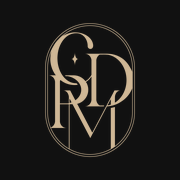
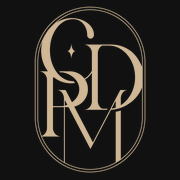
Icône : monogramme agrandi (#3)
* Icône d'application et manifeste pour l'ajout à l'écran d'accueil

Claude-Session: https://claude.ai/code/session_0175wKRAh1zfr61H2HgfBNrE

* Icône d'application basée sur le monogramme du cabinet

Claude-Session: https://claude.ai/code/session_0175wKRAh1zfr61H2HgfBNrE

* Icône : monogramme doré sur fond noir

Claude-Session: https://claude.ai/code/session_0175wKRAh1zfr61H2HgfBNrE

* Icône iPhone : balises déplacées dans l'en-tête de la page des scores

Claude-Session: https://claude.ai/code/session_0175wKRAh1zfr61H2HgfBNrE

* Icône : monogramme agrandi pour remplir le carré

Claude-Session: https://claude.ai/code/session_0175wKRAh1zfr61H2HgfBNrE

---------

Changed region(s): [[0.1667, 0.0278, 0.8333, 0.9722], [0.3611, 0.25, 0.4444, 0.3611]]

diff --git a/index.html b/index.html
@@ -4,7 +4,7 @@
 .site-switch a:hover{background:rgba(250,245,238,.12)}
 .site-switch a.on{background:var(--cream);color:var(--head);border-color:var(--cream)}
 @media print{.site-switch{display:none}}
-</style><link rel="manifest" href="manifest.webmanifest?v=2"><link rel="icon" href="icons/favicon-64.png?v=2" sizes="64x64"><link rel="icon" href="icons/icon-192.png?v=2" sizes="192x192"><link rel="apple-touch-icon" href="icons/apple-touch-icon.png?v=2"><meta name="apple-mobile-web-app-capable" content="yes"><meta name="mobile-web-app-capable" content="yes"><meta name="apple-mobile-web-app-title" content="Scores Derm"><meta name="apple-mobile-web-app-status-bar-style" content="black-translucent"><meta name="theme-color" content="#111111"></head><body>
+</style><link rel="manifest" href="manifest.webmanifest?v=3"><link rel="icon" href="icons/favicon-64.png?v=3" sizes="64x64"><link rel="icon" href="icons/icon-192.png?v=3" sizes="192x192"><link rel="apple-touch-icon" href="icons/apple-touch-icon.png?v=3"><meta name="apple-mobile-web-app-capable" content="yes"><meta name="mobile-web-app-capable" content="yes"><meta name="apple-mobile-web-app-title" content="Scores Derm"><meta name="apple-mobile-web-app-status-bar-style" content="black-translucent"><meta name="theme-color" content="#111111"></head><body>
 <title>Scores Dermatologiques</title>
 <meta name="claude:viewport-fit-sides" content="cover">
 <style>

diff --git a/biotherapies.html b/biotherapies.html
@@ -6,7 +6,7 @@
 <meta name="googlebot" content="noindex, nofollow">
 <meta name="viewport" content="width=device-width, initial-scale=1">
 <title>Biothérapies</title>
-<link rel="manifest" href="manifest.webmanifest?v=2"><link rel="icon" href="icons/favicon-64.png?v=2" sizes="64x64"><link rel="icon" href="icons/icon-192.png?v=2" sizes="192x192"><link rel="apple-touch-icon" href="icons/apple-touch-icon.png?v=2"><meta name="apple-mobile-web-app-capable" content="yes"><meta name="mobile-web-app-capable" content="yes"><meta name="apple-mobile-web-app-title" content="Scores Derm"><meta name="apple-mobile-web-app-status-bar-style" content="black-translucent"><meta name="theme-color" content="#111111">
+<link rel="manifest" href="manifest.webmanifest?v=3"><link rel="icon" href="icons/favicon-64.png?v=3" sizes="64x64"><link rel="icon" href="icons/icon-192.png?v=3" sizes="192x192"><link rel="apple-touch-icon" href="icons/apple-touch-icon.png?v=3"><meta name="apple-mobile-web-app-capable" content="yes"><meta name="mobile-web-app-capable" content="yes"><meta name="apple-mobile-web-app-title" content="Scores Derm"><meta name="apple-mobile-web-app-status-bar-style" content="black-translucent"><meta name="theme-color" content="#111111">
 <style>
 /* Même charte que Scores Dermatologiques : bandeau collant (titre + onglets à pastille), cartes blanches à en-tête coloré, une palette par onglet. */
 :root{
